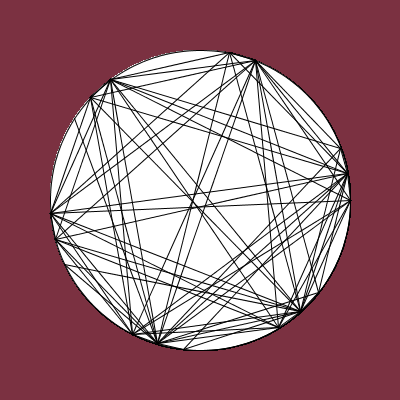
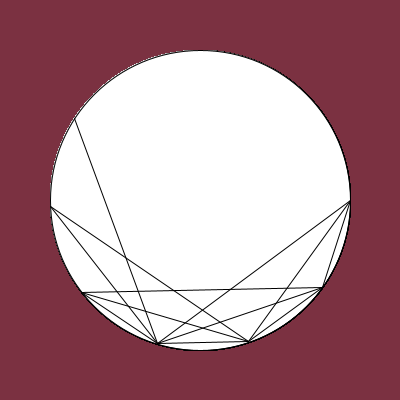
parametric lines sketch

Changed region(s): [[0.12, 0.12, 0.9, 0.87]]

diff --git a/parametricLines/README.md b/parametricLines/README.md
@@ -1,0 +1,4 @@
+Sketch based on a youtube video I saw about how to use parametric functions to represent complex trajectories in 2D space. 
+Using trigonometric lines, it is possible to constrain the movement to the area enclosed by the screen.
+
+![figure](./parametricLines.png)

diff --git a/trianglePattern/README.md b/trianglePattern/README.md
@@ -1,3 +1,5 @@
 Triangle pattern based on the cover of the book "An introduction to symbolic logic", by Susanne Langer. Dover Publications, 1967.
 
 ![trianglePattern](./trianglePattern.png)
+
+![book cover](./cover.png)
